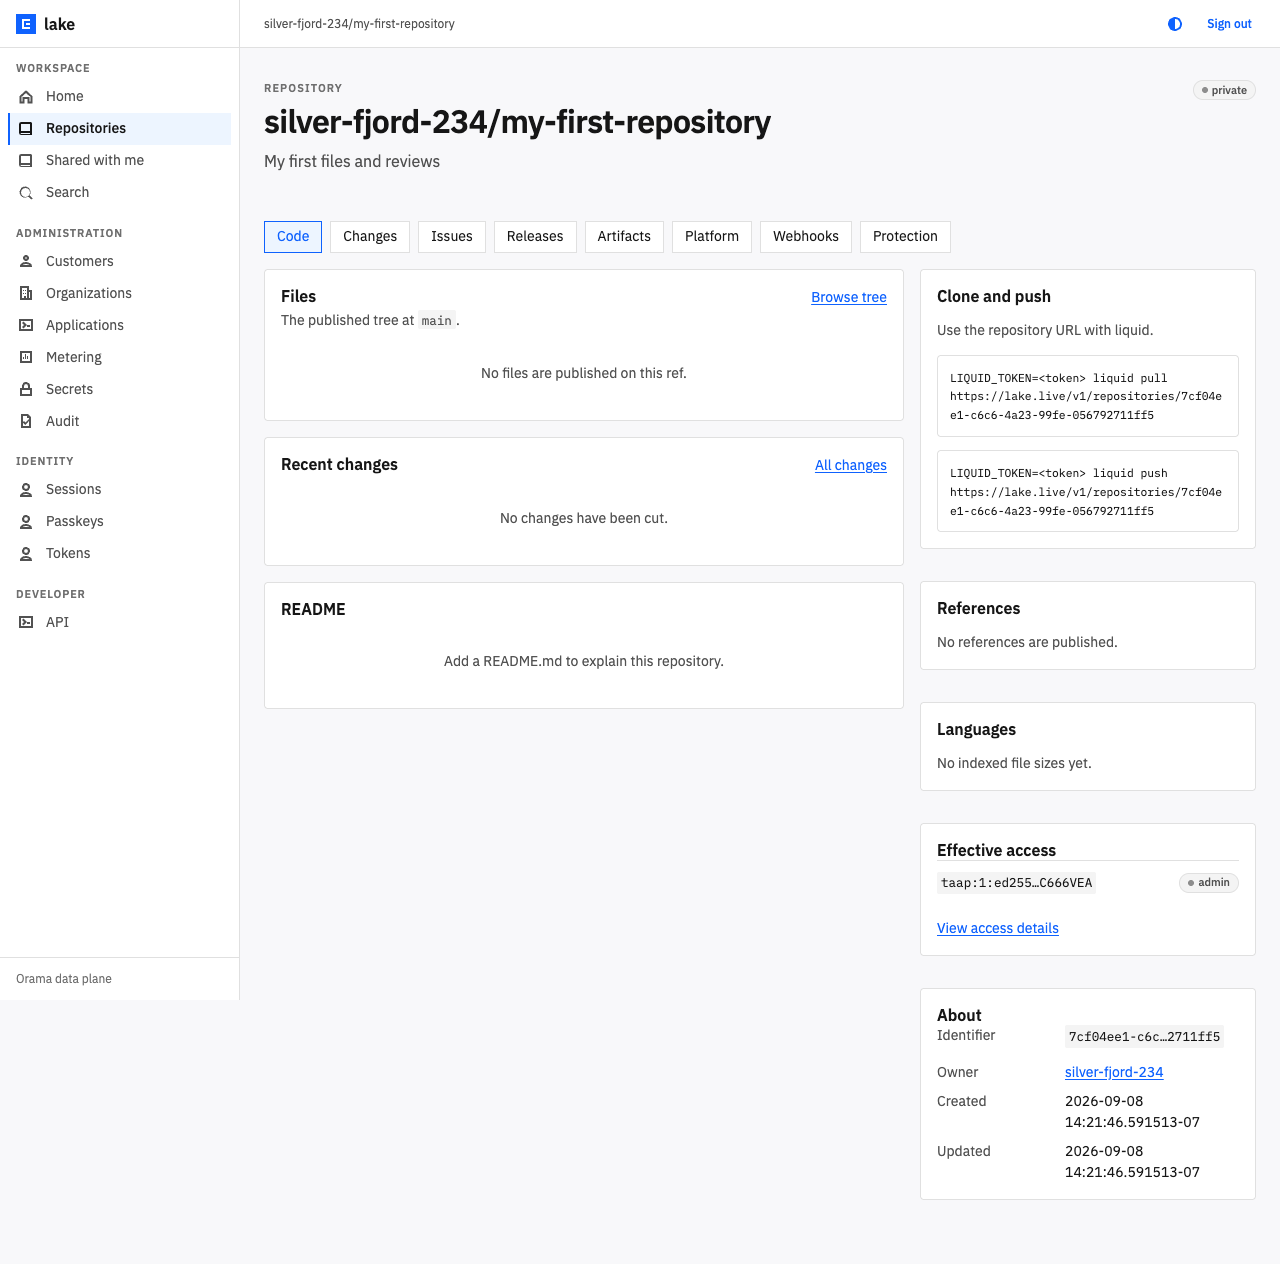
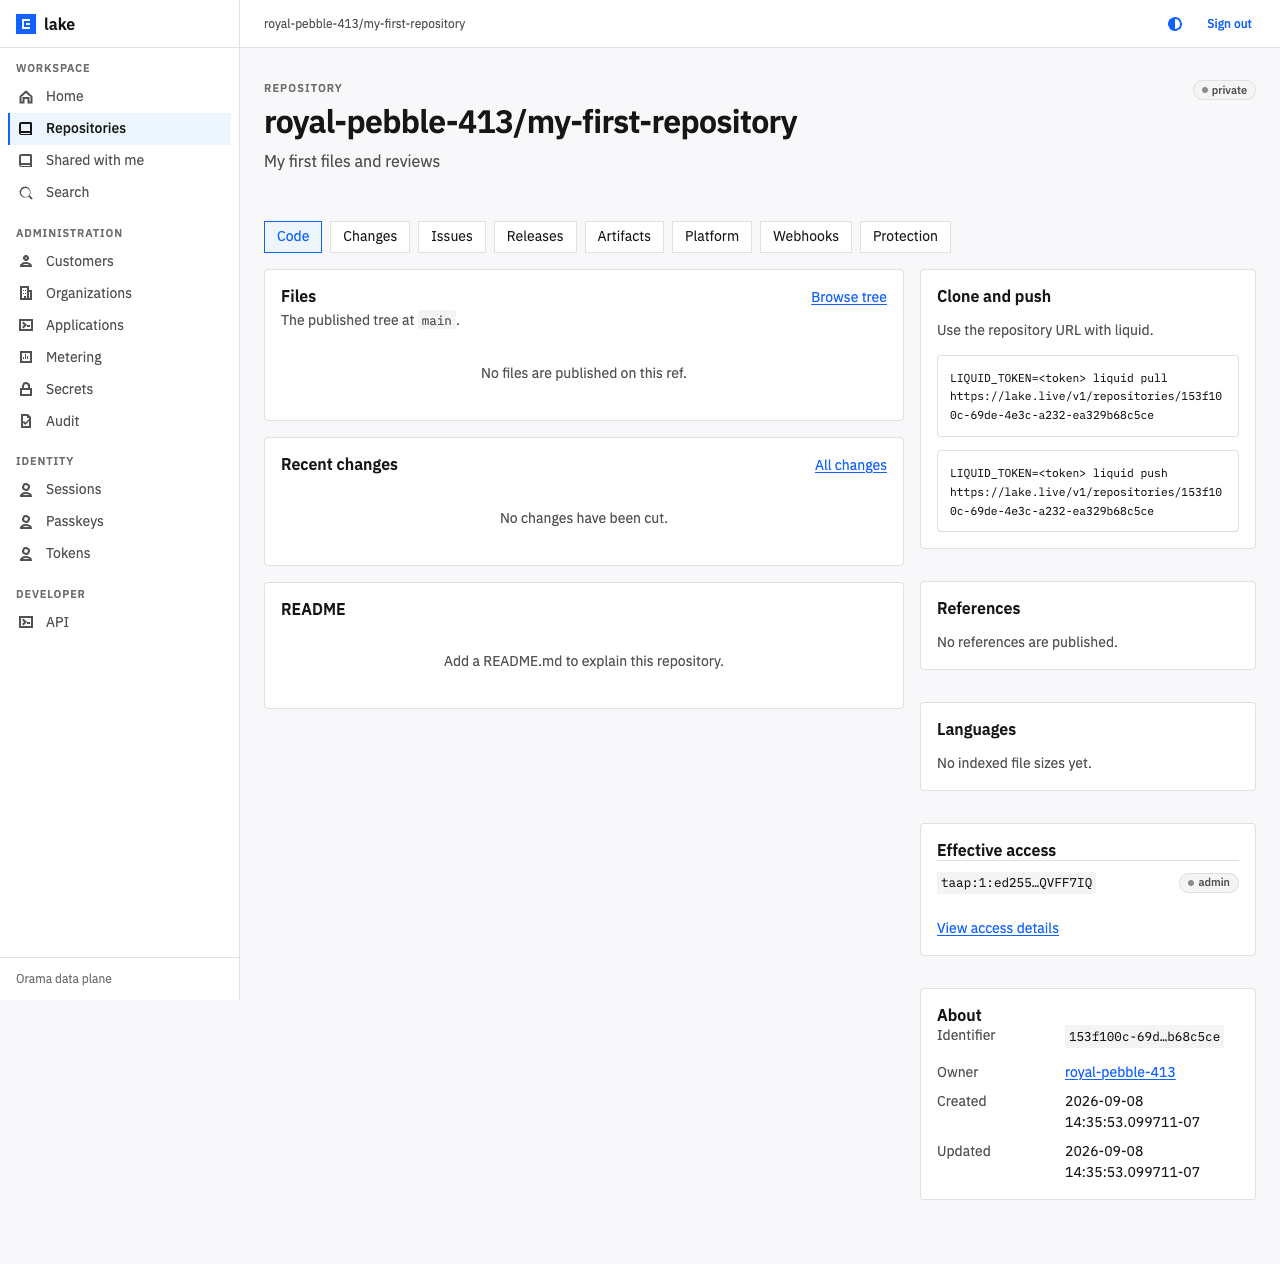
Record native provisioning and first-repository proof

diff --git a/docs/ui/sign-up-walkthrough.md b/docs/ui/sign-up-walkthrough.md
@@ -51,10 +51,10 @@ repository was created.
 
 | Width | Theme | Personal customer | Initial stored bytes | Initial cost (micro-units) |
 |---|---|---|---:|---:|
-| 1280 | light | `silver-fjord-234` | 0 | 0 |
-| 1280 | dark | `coral-anchor-913` | 0 | 0 |
-| 640 | light | `zesty-marble-162` | 0 | 0 |
-| 640 | dark | `coral-summit-899` | 0 | 0 |
+| 1280 | light | `royal-pebble-413` | 0 | 0 |
+| 1280 | dark | `ready-lynx-184` | 0 | 0 |
+| 640 | light | `olive-vista-171` | 0 | 0 |
+| 640 | dark | `rare-geyser-529` | 0 | 0 |
 
 ```sql
 SELECT count(*) FROM customers;
@@ -82,21 +82,57 @@ Run the full suite with `LAKE_TEST_DB_URI` pointing at a fresh schema-loaded dat
 instance identity and must not share that database with a server using another key.
 
 ```sh
+DB=lake_test_119
+createdb -h 127.0.0.1 -U stevesperandeo "$DB"
+psql -h 127.0.0.1 -U stevesperandeo -d "$DB" -f db/schema.sql
+export LAKE_TEST_DB_URI="postgresql://stevesperandeo@127.0.0.1:5432/$DB"
+export LAKE_INSTANCE_KEK=$(openssl rand -hex 32)
+mkdir -p .cache/issue-119/tmp
+export TMPDIR="$PWD/.cache/issue-119/tmp"
+python3 -m venv .cache/test-python
+.cache/test-python/bin/python -m pip install jsonschema
 cmake -S . -B build -G Ninja \
+  -DPython3_EXECUTABLE="$PWD/.cache/test-python/bin/python" \
   -DLAKE_ZETTA_SOURCE_DIR=/Users/stevesperandeo/dev/homer6/orama-work/modules/zetta-bridge/modules/zetta
 cmake --build build -j 6
 ctest --test-dir build --output-on-failure
 cmake -S . -B build-shared -G Ninja -DBUILD_SHARED_LIBS=ON \
+  -DPython3_EXECUTABLE="$PWD/.cache/test-python/bin/python" \
   -DLAKE_ZETTA_SOURCE_DIR=/Users/stevesperandeo/dev/homer6/orama-work/modules/zetta-bridge/modules/zetta
 cmake --build build-shared -j 6
+DB=lake_test_119_shared
+createdb -h 127.0.0.1 -U stevesperandeo "$DB"
+psql -h 127.0.0.1 -U stevesperandeo -d "$DB" -f db/schema.sql
+export LAKE_TEST_DB_URI="postgresql://stevesperandeo@127.0.0.1:5432/$DB"
 ctest --test-dir build-shared --output-on-failure
 ```
 
-Final suite summaries are recorded after the branch is rebased and reverified.
+The branch was rebased onto `78bdf57` (registry schema conformance). Because that change touched
+a public header and a CMake list, both build directories were removed and configured from
+scratch, submodules were refreshed, and both full suites were rerun. Final summaries follow.
+
+```text
+$ ctest --test-dir build --output-on-failure
+100% tests passed, 0 tests failed out of 225
+
+Total Test time (real) = 397.07 sec
+
+$ ctest --test-dir build-shared --output-on-failure
+100% tests passed, 0 tests failed out of 225
+
+Total Test time (real) = 373.51 sec
+```
+
+Both runs skipped `HuggingFaceClient.CommonFlowsRunWhenPythonClientIsInstalled` because the
+optional Python client is absent, and retained the disabled
+`SearchBenchmark.BuildAndQueryTenThousandFiles` benchmark. No PostgreSQL-backed test was
+skipped. All registered schema-conformance, UI-token, and contrast checks passed.
+
 Linux proof deferred: the designated `tools/linux-proof.sh` helper is absent on this host.
 No image build was attempted; no Docker on this host.
 
 Browser validation also accepted `my-first-repository` and `a`, and refused `Bad Name`,
 `-bad`, and `bad-` with the same handle rules enforced by the registry.
 
-The homepage and navigation work remain #135; MCP schema conformance remains #124.
+The homepage and navigation work remain #135. MCP schema conformance landed separately in #136
+and is included in the final suites.

diff --git a/docs/ui/screenshots/sign-up/README.md b/docs/ui/screenshots/sign-up/README.md
@@ -3,6 +3,8 @@
 Native Chrome captures from the fresh-profile walkthrough at 1280 and 640 pixels in light and
 dark. Each profile has instructions, a truncated-document recovery message, its provisioned
 customer and repository form, and the first private repository home. All accounts are synthetic.
+The final captures use the native build after rebasing onto `78bdf57`, matching the full static
+and shared proof in the walkthrough.
 
 Reproduction steps, metering results, and image links are in
 [../../sign-up-walkthrough.md](../../sign-up-walkthrough.md).

diff --git a/docs/api/README.md b/docs/api/README.md
@@ -237,5 +237,6 @@ It reports the tool count, successful tool count, required-output coverage, and 
 Run it through the full native Postgres-backed CTest suite; see
 [`../build/testing.md`](../build/testing.md). To change an output, update its registry value schema
 and success fixture together, retaining the shared envelope construction.
+
 Personal-customer sign-up behavior, naming, quotas, metering, and atomic retry semantics are in
 [provisioning.md](provisioning.md). All transports use the existing `sign_up_password` entry.
